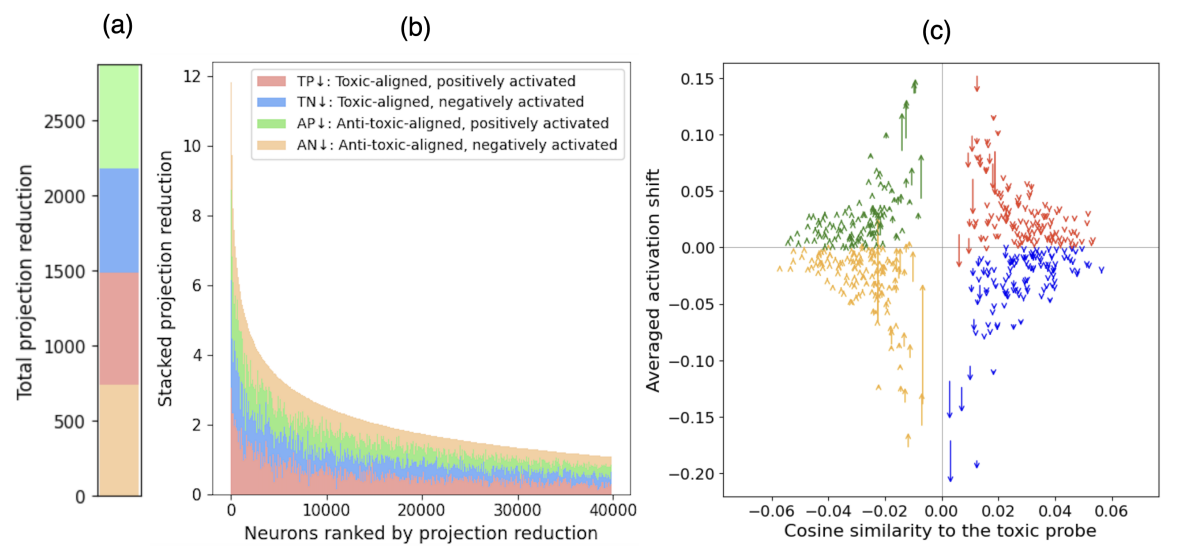
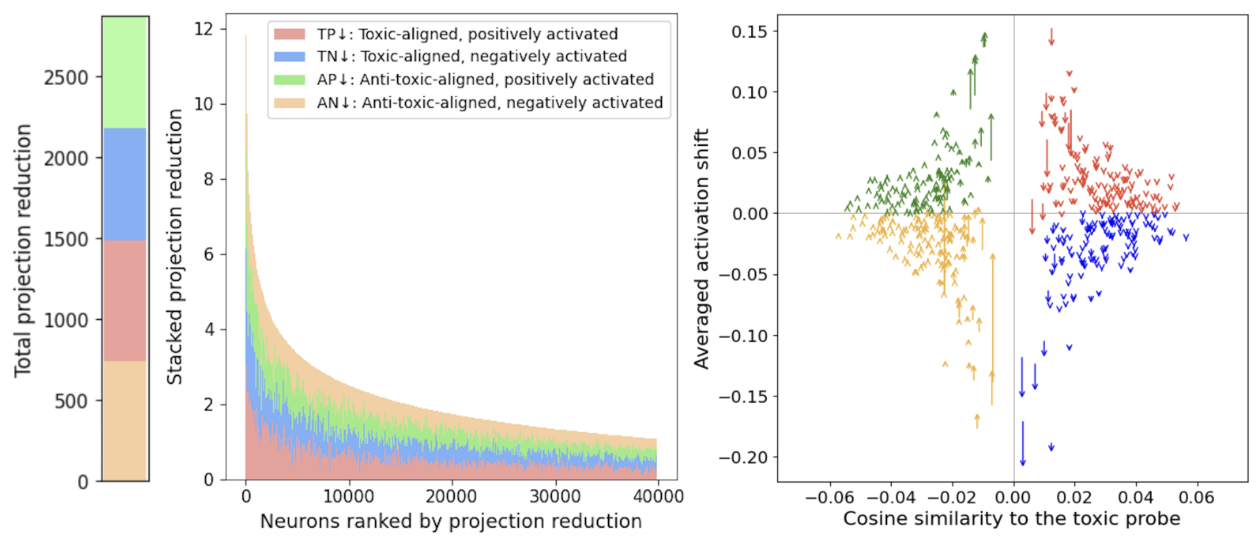
Update DPO figure, scale DPO/Unlearning to 90%, new hints

Changed region(s): [[0.0, 0.0, 1.0, 1.0], [0.5806, 0.0297, 0.6112, 0.0892], [0.1528, 0.0297, 0.1834, 0.0892]]

diff --git a/index.html b/index.html
@@ -74,7 +74,7 @@
 
         <!-- Education Section -->
         <section id="education" class="section">
-            <h2><span class="section-title">Education</span><span class="section-hint">Best unis??</span></h2>
+            <h2><span class="section-title">Education</span><span class="section-hint">Math + Stats + AI</span></h2>
             <div class="timeline-item">
                 <div class="timeline-logo">
                     <img src="logos/oxford.png" alt="Oxford">
@@ -123,7 +123,7 @@
 
         <!-- Experience Section -->
         <section id="experience" class="section">
-            <h2><span class="section-title">Experience</span><span class="section-hint">Places that have trusted me</span></h2>
+            <h2><span class="section-title">Experience</span><span class="section-hint">AI Researcher + AI Engineer</span></h2>
             <div class="timeline-item">
                 <div class="timeline-logo">
                     <img src="logos/meta.webp" alt="Meta">
@@ -194,7 +194,7 @@
 
         <!-- Publications Section -->
         <section id="publications" class="section">
-            <h2><span class="section-title">Publications</span><span class="section-hint">World-changing, in hope!</span></h2>
+            <h2><span class="section-title">Publications</span><span class="section-hint">LLM post-training, Agents, Alignment</span></h2>
             <a href="https://arxiv.org/abs/2510.17431" target="_blank" class="publication-item">
                 <div class="publication-main">
                     <p class="publication-venue"><span class="venue-box">EMNLP 2026<br>(under review)</span></p>
@@ -236,7 +236,7 @@
                             <span class="pub-tag">Preference tuning</span>
                         </div>
                         <p class="publication-description">Developed a training-free activation editing method to replicate DPO</p>
-                        <img class="publication-figure" src="paper_figures/DPO.png" alt="How Does DPO Reduce Toxicity figure">
+                        <img class="publication-figure figure-90" src="paper_figures/DPO.png" alt="How Does DPO Reduce Toxicity figure">
                     </div>
                 </div>
             </a>
@@ -251,7 +251,7 @@
                             <span class="pub-tag">Knowledge Removal</span>
                         </div>
                         <p class="publication-description">Developed a method for targeted LLM knowledge removal, 4–50× more robust to full fine-tuning recovery</p>
-                        <img class="publication-figure" src="paper_figures/Unlearning.png" alt="RepSelect unlearning figure">
+                        <img class="publication-figure figure-90" src="paper_figures/Unlearning.png" alt="RepSelect unlearning figure">
                     </div>
                 </div>
             </a>

diff --git a/styles.css b/styles.css
@@ -485,6 +485,10 @@ body {
     margin-top: 16px;
 }
 
+.publication-figure.figure-90 {
+    width: 90%;
+}
+
 .publication-links {
     display: flex;
     flex-direction: column;
